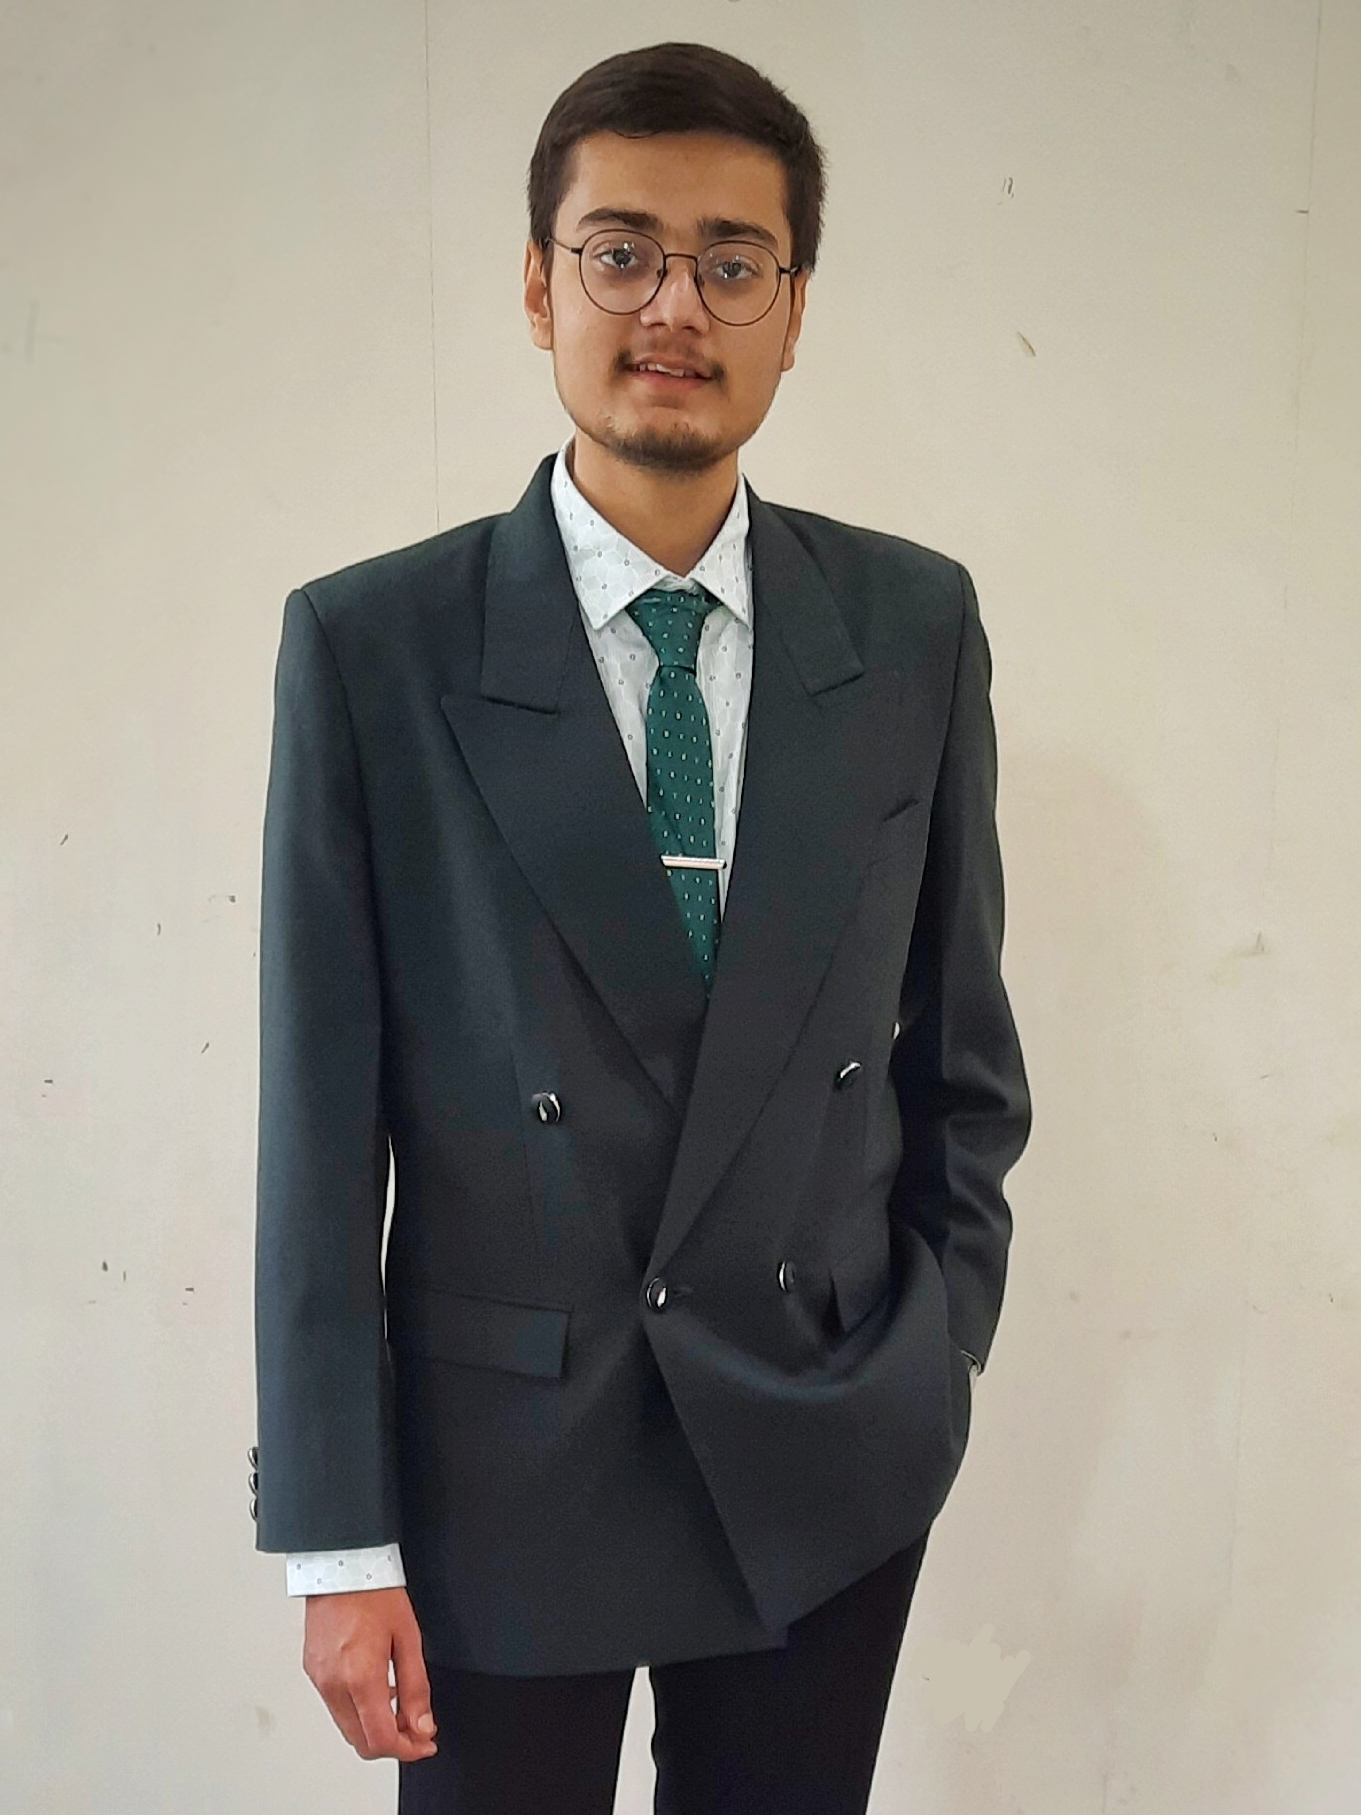
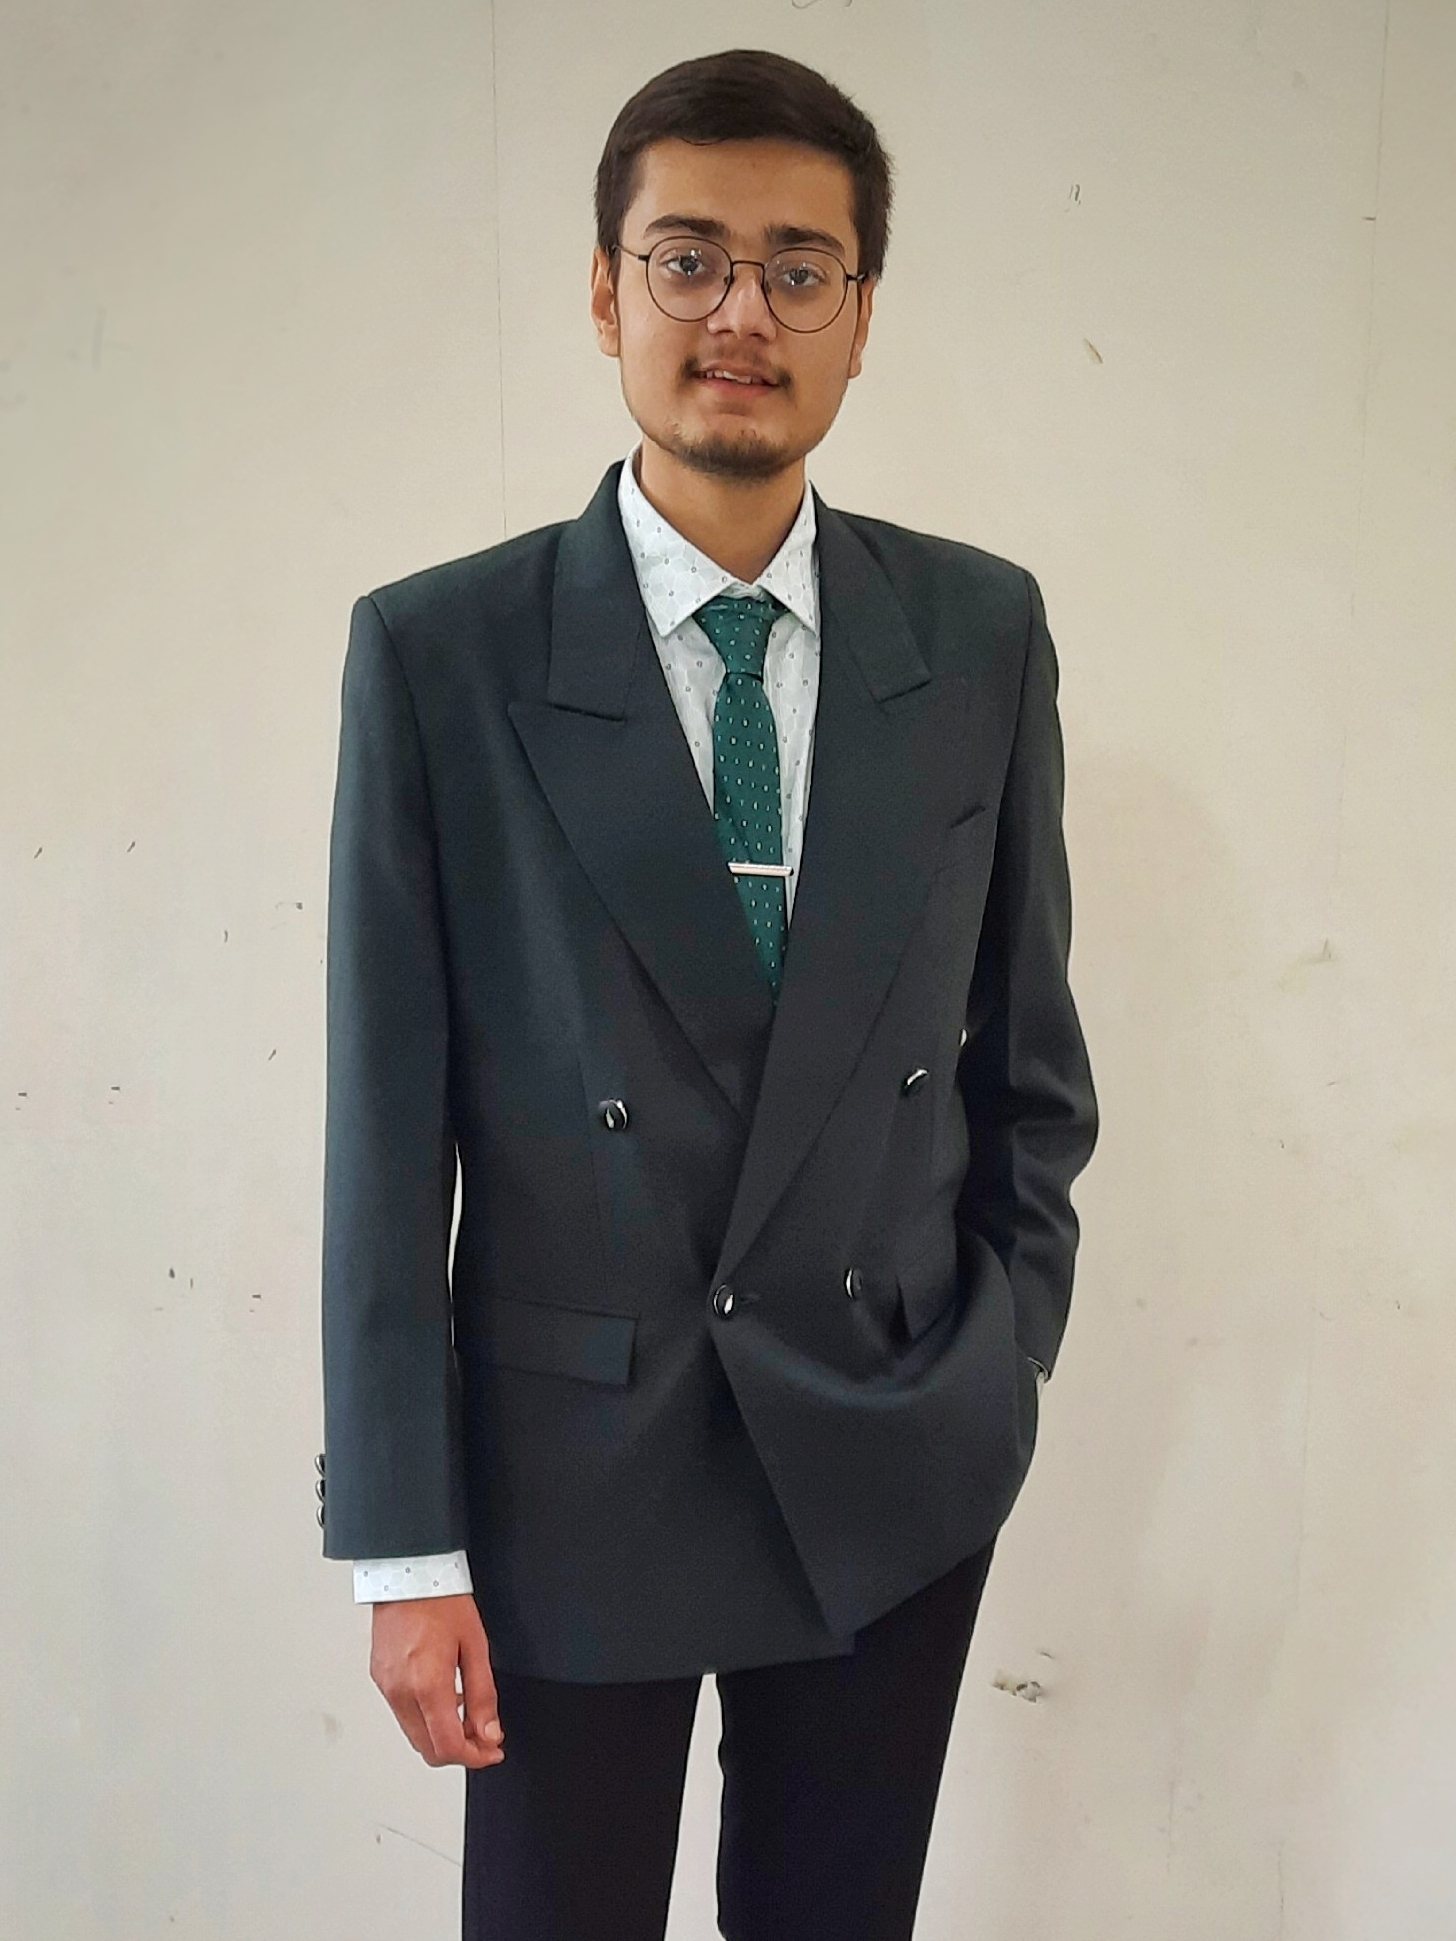
vp photo on team page updated

diff --git a/team.html b/team.html
@@ -257,7 +257,7 @@
                           </div>
                       </div>
                       <div class="item">
-                          <img src="public/image/Himanshu (2).jpg" alt="team" />
+                          <img src="public/image/Himanshu.jpg" alt="team" />
                           <div class="inner">
                               <div class="info">
                                   <h5>Himanshu Agarkar</h5>
